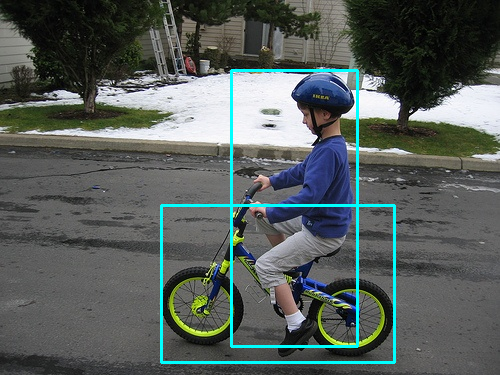
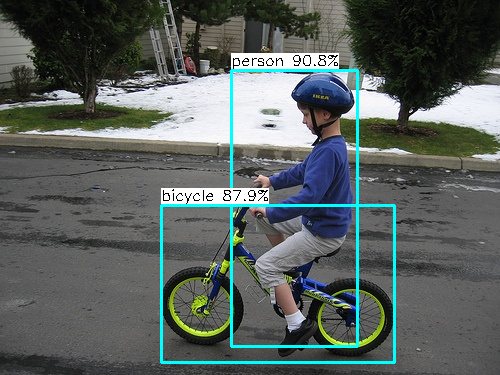
update ncnn sample code

Changed region(s): [[0.45, 0.1173, 0.69, 0.2053], [0.3, 0.4987, 0.54, 0.5573]]

diff --git a/sample/ncnn/demo.cpp b/sample/ncnn/demo.cpp
@@ -1,7 +1,20 @@
 #include "yolo-fastestv2.h"
 
 int main()
-{   yoloFastestv2 api;
+{   
+    static const char* class_names[] = {
+        "person", "bicycle", "car", "motorcycle", "airplane", "bus", "train", "truck", "boat", "traffic light",
+        "fire hydrant", "stop sign", "parking meter", "bench", "bird", "cat", "dog", "horse", "sheep", "cow",
+        "elephant", "bear", "zebra", "giraffe", "backpack", "umbrella", "handbag", "tie", "suitcase", "frisbee",
+        "skis", "snowboard", "sports ball", "kite", "baseball bat", "baseball glove", "skateboard", "surfboard",
+        "tennis racket", "bottle", "wine glass", "cup", "fork", "knife", "spoon", "bowl", "banana", "apple",
+        "sandwich", "orange", "broccoli", "carrot", "hot dog", "pizza", "donut", "cake", "chair", "couch",
+        "potted plant", "bed", "dining table", "toilet", "tv", "laptop", "mouse", "remote", "keyboard", "cell phone",
+        "microwave", "oven", "toaster", "sink", "refrigerator", "book", "clock", "vase", "scissors", "teddy bear",
+        "hair drier", "toothbrush"
+    };
+    
+    yoloFastestv2 api;
 
     api.loadModel("./model/yolo-fastestv2-opt.param",
                   "./model/yolo-fastestv2-opt.bin");
@@ -15,6 +28,25 @@ int main()
         std::cout<<boxes[i].x1<<" "<<boxes[i].y1<<" "<<boxes[i].x2<<" "<<boxes[i].y2
                  <<" "<<boxes[i].score<<" "<<boxes[i].cate<<std::endl;
         
+        char text[256];
+        sprintf(text, "%s %.1f%%", class_names[boxes[i].cate], boxes[i].score * 100);
+
+        int baseLine = 0;
+        cv::Size label_size = cv::getTextSize(text, cv::FONT_HERSHEY_SIMPLEX, 0.5, 1, &baseLine);
+
+        int x = boxes[i].x1;
+        int y = boxes[i].y1 - label_size.height - baseLine;
+        if (y < 0)
+            y = 0;
+        if (x + label_size.width > cvImg.cols)
+            x = cvImg.cols - label_size.width;
+
+        cv::rectangle(cvImg, cv::Rect(cv::Point(x, y), cv::Size(label_size.width, label_size.height + baseLine)),
+                      cv::Scalar(255, 255, 255), -1);
+
+        cv::putText(cvImg, text, cv::Point(x, y + label_size.height),
+                    cv::FONT_HERSHEY_SIMPLEX, 0.5, cv::Scalar(0, 0, 0));
+
         cv::rectangle (cvImg, cv::Point(boxes[i].x1, boxes[i].y1), 
                        cv::Point(boxes[i].x2, boxes[i].y2), cv::Scalar(255, 255, 0), 2, 2, 0);
     }
